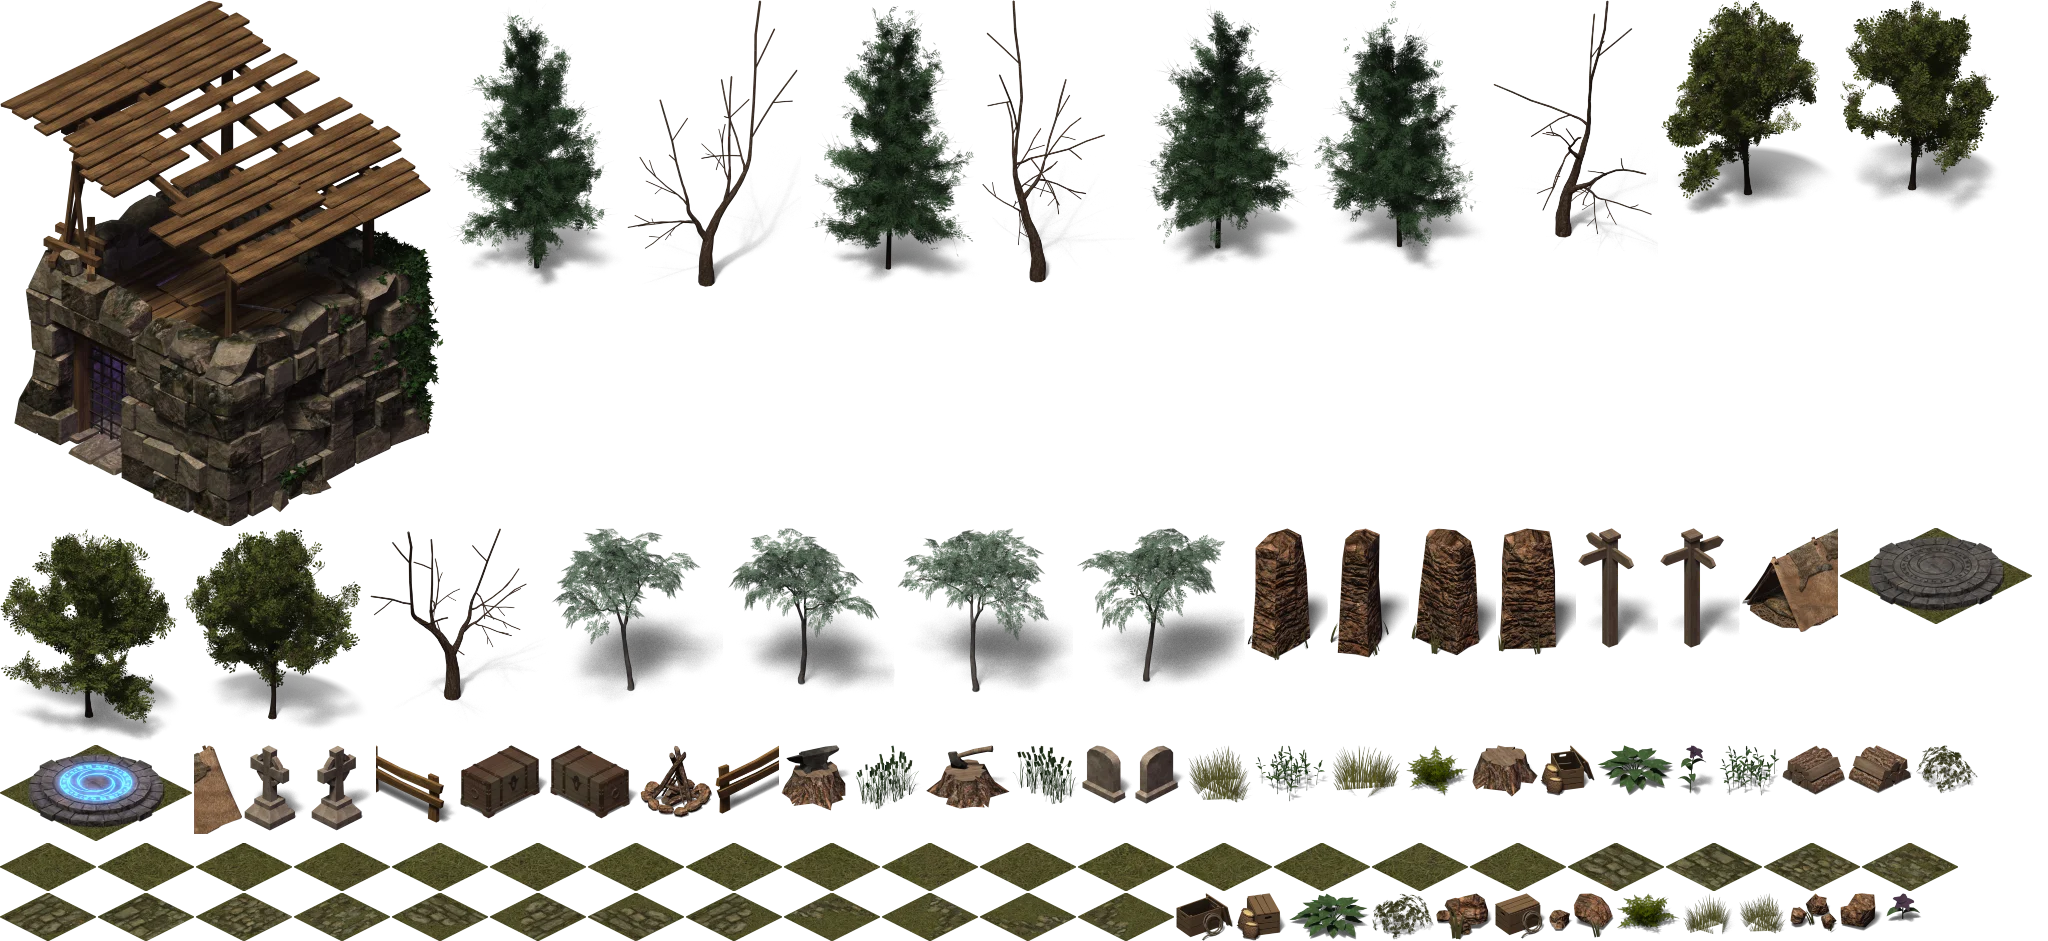
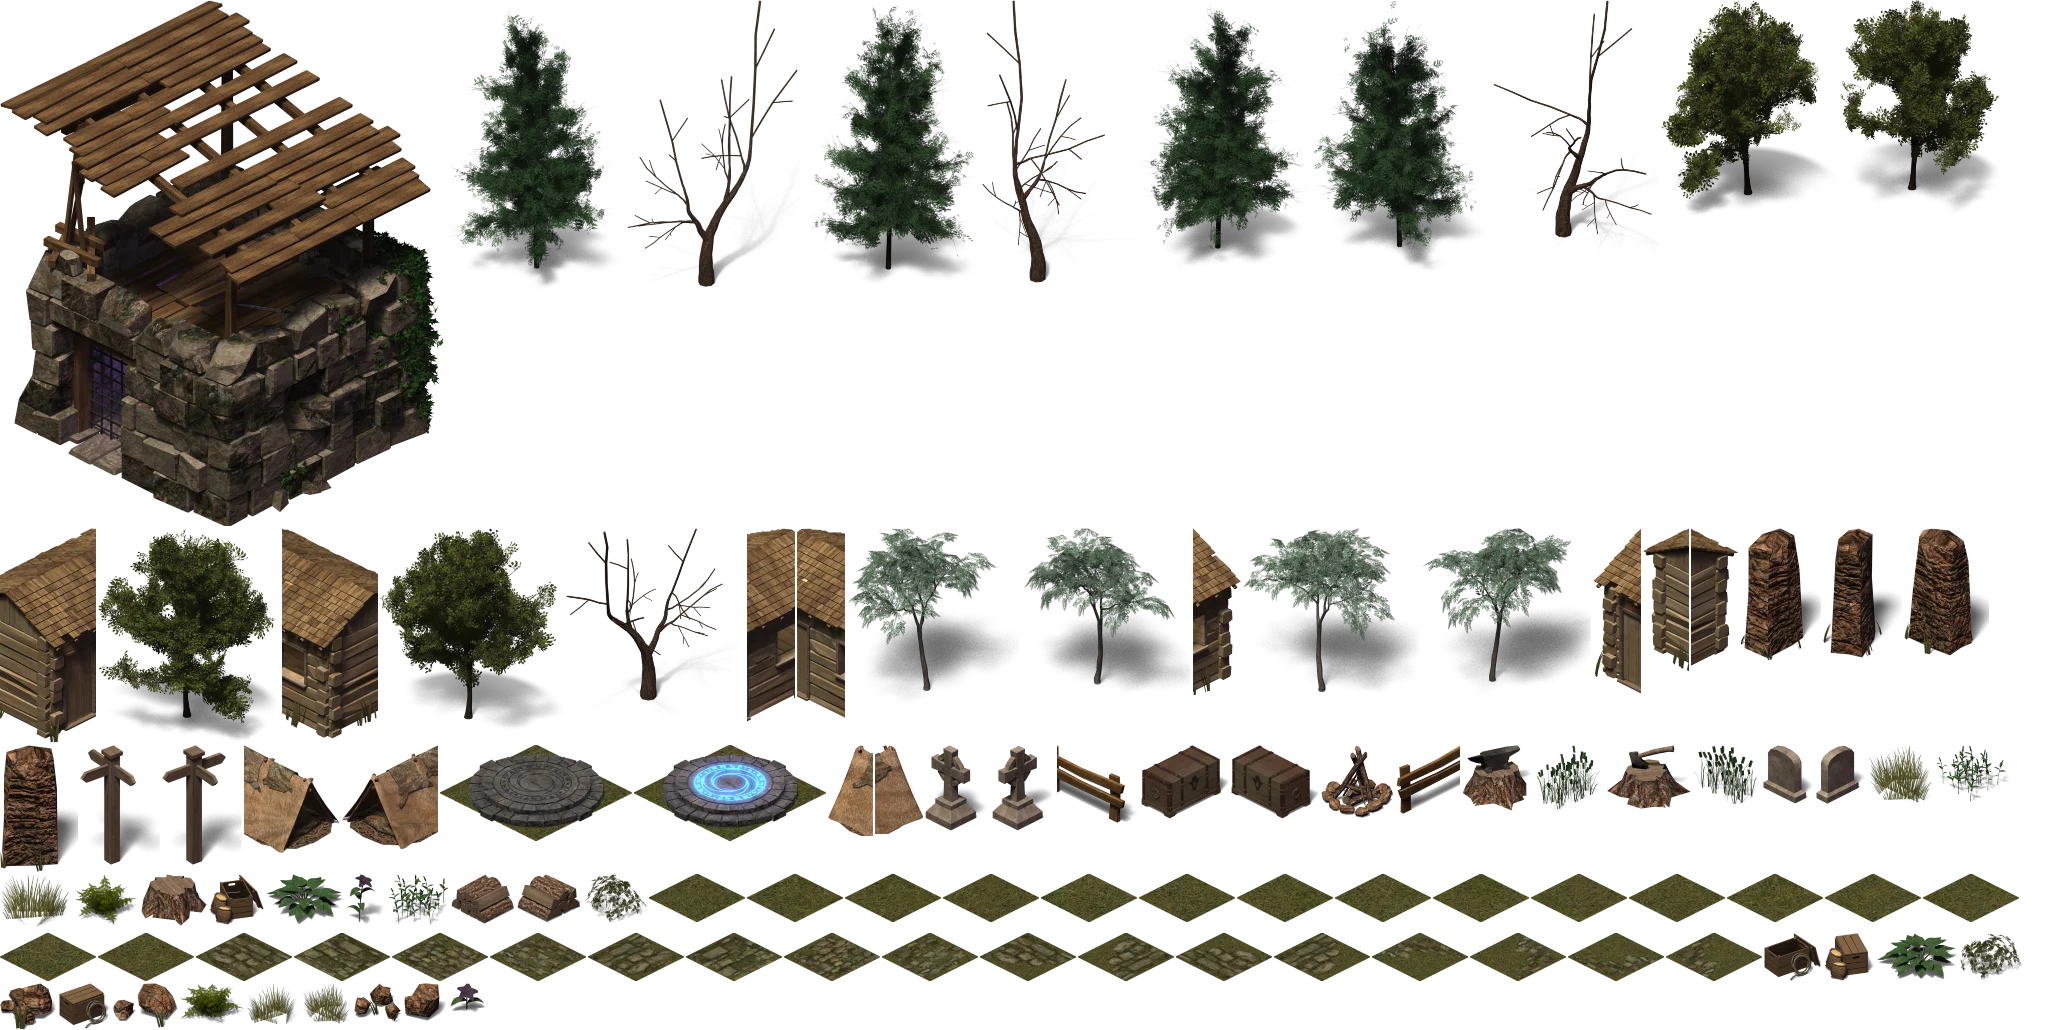
Las dos ciudades: Ciudad de Solmar (cabañas de Flare, plaza rúnica, empalizada) y Ciudad de Vhar (pueblo seco al noreste con puerta al mundo); cada facción arranca en la suya
Claude-Session: https://claude.ai/code/session_01BawyAWyAyhibh5fMv5iLTz

diff --git a/packages/world/src/cities.ts b/packages/world/src/cities.ts
@@ -1,0 +1,100 @@
+/**
+ * Las dos ciudades: Solmar (la villa del campamento, ampliada) y Vhar (un pueblo fortificado de tierras secas
+ * al noreste, que se conecta con el mundo por una puerta). Se arman con el arte de Flare (CC-BY-SA 3.0):
+ * cabañas de troncos de varias piezas (como en Lochport y Black Oak City de la campaña Empyrean),
+ * vallas, fogatas, yunque, tiendas, el pozo de piedra y el círculo rúnico de la plaza.
+ * Corre al final de buildSolmar, igual en cliente y server, con su propia semilla.
+ */
+import type { WorldMap, Prop, Npc } from './index';
+import { sbs, SBS, PATH, ROCKS, DEAD } from './frontier';
+
+export interface City { faction: 'solmar' | 'vhar'; name: string; x0: number; y0: number; x1: number; y1: number }
+export const CITIES: City[] = [
+    { faction: 'solmar', name: 'Ciudad de Solmar', x0: 1, y0: 1, x1: 14, y1: 14 },
+    { faction: 'vhar', name: 'Ciudad de Vhar', x0: 66, y0: 3, x1: 90, y1: 21 },
+];
+export const HUBS: Record<string, { x: number; y: number }> = { solmar: { x: 7, y: 8 }, vhar: { x: 78, y: 13 } };
+export const cityAt = (x: number, y: number): City | undefined => CITIES.find((c) => x >= c.x0 && x < c.x1 + 1 && y >= c.y0 && y < c.y1 + 1);
+
+const GRASS = [16, 17, 18, 19, 20, 21, 22, 23, 24, 25, 26, 27, 28, 29, 30, 31];
+const STONE = [32, 33, 34, 35, 36, 37, 38, 39, 40, 41, 42, 43];
+const DRY_GROUND = [sbs(SBS.rocky1, 1), sbs(SBS.rocky1, 2), sbs(SBS.rocky1, 7), sbs(SBS.rocky1, 10), sbs(SBS.rocky1, 12), sbs(SBS.dry1, 13)];
+const FLOWERS = [112, 113, 114, 115, 116, 117, 120, 121, 122, 123, 124, 125];
+
+export function extendCities(w: WorldMap): WorldMap {
+    let seed = 424242;
+    const rnd = () => { seed |= 0; seed = (seed + 0x6d2b79f5) | 0; let t = Math.imul(seed ^ (seed >>> 15), 1 | seed); t = (t + Math.imul(t ^ (t >>> 7), 61 | t)) ^ t; return ((t ^ (t >>> 14)) >>> 0) / 4294967296; };
+    const pick = <T>(a: readonly T[]): T => a[Math.floor(rnd() * a.length)];
+
+    const prop = (id: number, x: number, y: number, block = true) => { w.props.push({ id, x: x + 0.5, y: y + 0.5 }); if (block) w.blocked[y][x] = true; };
+    /** Cabaña de troncos de Flare, variante con la puerta hacia el sur: tres piezas en fila (x-2..x) y el techo en (x, y-1). Ocupa 3x2 celdas. */
+    const cabinA = (x: number, y: number) => { prop(212, x - 2, y); prop(213, x - 1, y); prop(214, x, y); prop(215, x, y - 1); w.blocked[y - 1][x - 2] = w.blocked[y - 1][x - 1] = true; };
+    /** Variante con la puerta hacia el este: (x, y), (x, y+1) y dos piezas en la fila de abajo. Ocupa 2x3 celdas. */
+    const cabinB = (x: number, y: number) => { prop(211, x, y); prop(210, x, y + 1); prop(208, x - 1, y + 2); prop(209, x, y + 2); w.blocked[y][x - 1] = w.blocked[y + 1][x - 1] = true; };
+
+    // limpia lo que había dentro de cada ciudad (el campamento viejo, vegetación suelta, mobs no hay: es zona segura)
+    for (const c of CITIES) {
+        const keep = (p: { x: number; y: number }) => !(p.x >= c.x0 && p.x <= c.x1 + 1 && p.y >= c.y0 && p.y <= c.y1 + 1);
+        w.props = w.props.filter(keep); w.decals = w.decals.filter(keep); w.buildings = w.buildings.filter(keep); w.npcs = w.npcs.filter(keep);
+        for (let y = c.y0; y <= c.y1; y++) for (let x = c.x0; x <= c.x1; x++) { w.blocked[y][x] = false; w.safe[y][x] = true; }
+    }
+
+    // ================= Solmar =================
+    {
+        const c = CITIES[0];
+        for (let y = c.y0; y <= c.y1; y++) for (let x = c.x0; x <= c.x1; x++) {
+            const plaza = x >= 5 && x <= 10 && y >= 5 && y <= 10, road = (x === 7 || x === 8 || y === 7 || y === 8) && !(x < 3 && y < 3);
+            w.tiles[y][x] = plaza || road ? pick(STONE) : pick(GRASS);
+        }
+        // empalizada: este y sur, con tres portones; norte y oeste son el borde del mapa
+        for (let i = 1; i <= 14; i++) {
+            if (i !== 5 && i !== 6 && i !== 11) prop(104, 14, i);
+            if (i !== 7 && i !== 8 && i < 14) prop(107, i, 14);
+        }
+        for (const [px, py] of [[15, 5], [15, 6], [15, 11], [7, 15], [8, 15]] as const) w.tiles[py][px] = pick(PATH);
+        w.decals.push({ id: 265, x: 7.5 + 0.5, y: 7.5 + 0.5 });
+        w.buildings = [{ id: 'fantasy_house', x: 9, y: 2, w: 3, h: 3 }];
+        for (const b of w.buildings) for (let y = b.y; y < b.y + b.h; y++) for (let x = b.x; x < b.x + b.w; x++) w.blocked[y][x] = true;
+        cabinA(6, 4); cabinA(13, 8); cabinA(5, 13); cabinA(12, 13); cabinB(2, 6); cabinB(2, 10);
+        prop(296, 12, 11); // pozo de piedra
+        prop(102, 10, 10); // fogata
+        prop(103, 4, 11); // yunque
+        for (const [id, x, y] of [[98, 10, 6], [100, 11, 6], [96, 4, 8], [99, 4, 9], [76, 3, 3], [77, 3, 4], [72, 12, 5], [75, 3, 13]] as const) prop(id, x, y);
+        for (const [x, y] of [[2, 2], [13, 2], [3, 12], [11, 12], [6, 9], [9, 6]] as const) prop(pick(FLOWERS), x, y, false);
+        for (const [x, y] of [[1, 1], [14, 1]] as const) prop(pick([252, 253, 254, 255]), x, y);
+        const npcs: Npc[] = [{ id: 'mercader', name: 'Mercader', x: 9, y: 7, dir: 6 }, { id: 'capitan', name: 'Capitán Aldric', x: 6, y: 9, dir: 2 }];
+        for (const n of npcs) { w.blocked[n.y][n.x] = true; w.npcs.push(n); }
+        w.spawn = { ...HUBS.solmar }; w.fire = { x: 10, y: 10 };
+    }
+
+    // ================= Vhar =================
+    {
+        const c = CITIES[1];
+        for (let y = c.y0; y <= c.y1; y++) for (let x = c.x0; x <= c.x1; x++) {
+            const plaza = x >= 74 && x <= 82 && y >= 9 && y <= 16, road = (x === 77 || x === 78 || x === 79 || y === 12 || y === 13) && !(y < 5);
+            w.tiles[y][x] = plaza ? pick(STONE) : road ? pick(PATH) : rnd() < 0.22 ? pick(DRY_GROUND) : pick(STONE);
+        }
+        // muralla de vallas con una puerta al sur (la que conecta con el resto del mundo)
+        for (let x = c.x0; x <= c.x1; x++) { prop(107, x, c.y0); if (x < 77 || x > 79) prop(107, x, c.y1); }
+        for (let y = c.y0 + 1; y < c.y1; y++) { prop(104, c.x0, y); prop(104, c.x1, y); }
+        w.decals.push({ id: 264, x: 78 + 0.5, y: 12.5 + 0.5 });
+        cabinA(71, 7); cabinA(76, 7); cabinA(85, 7); cabinA(88, 9); cabinA(70, 18); cabinA(86, 18); cabinB(68, 12); cabinB(88, 13); cabinB(72, 14);
+        prop(296, 83, 5); prop(102, 76, 11); prop(102, 80, 14); prop(103, 87, 16); prop(103, 69, 8);
+        for (const [id, x, y] of [[96, 75, 16], [98, 76, 16], [100, 82, 10], [99, 83, 10], [101, 84, 11], [72, 82, 17], [75, 73, 17], [73, 81, 4]] as const) prop(id, x, y);
+        for (const [x, y] of [[68, 5], [89, 4], [67, 20], [89, 20], [74, 4], [81, 19], [70, 11], [86, 12]] as const) prop(pick(DEAD), x, y);
+        for (const [x, y] of [[72, 20], [84, 19], [69, 15], [87, 7]] as const) prop(pick(ROCKS), x, y);
+        for (const [x, y] of [[68, 17], [71, 19], [88, 5]] as const) prop(pick([140, 141, 142, 143]), x, y);
+        const npcs: Npc[] = [{ id: 'mercader', name: 'Mercader de Vhar', x: 80, y: 11, dir: 6 }, { id: 'capitan', name: 'Capitán Kharos', x: 76, y: 14, dir: 2 }];
+        for (const n of npcs) { w.blocked[n.y][n.x] = true; w.npcs.push(n); }
+    }
+
+    // puertas entre el mundo y Vhar (pisar el tile y pasar al otro lado)
+    w.portals = [...(w.portals ?? []),
+        { x: 34, y: 14, tx: 78, ty: 19, msg: 'Cruzás la puerta hacia la Ciudad de Vhar.' },
+        { x: 78, y: 20, tx: 34, ty: 15, msg: 'Salís de la Ciudad de Vhar.' }];
+    w.tiles[14][34] = pick(STONE); w.tiles[20][78] = pick(STONE);
+    w.blocked[14][34] = w.blocked[20][78] = false; w.blocked[15][34] = w.blocked[19][78] = false;
+    w.props.push({ id: 138, x: 33 + 0.5, y: 14 + 0.5 } satisfies Prop, { id: 138, x: 35 + 0.5, y: 14 + 0.5 } satisfies Prop); w.blocked[14][33] = w.blocked[14][35] = true;
+    w.hubs = HUBS; w.cities = CITIES;
+    return w;
+}

diff --git a/apps/client/src/main.ts b/apps/client/src/main.ts
@@ -5,7 +5,7 @@
  * quién ve a quién y el chat. Lo que todavía corre solo en este navegador, como en el prototipo:
  * mobs, combate, hechizos, loot y experiencia (pasan al server en la fase 1b).
  */
-import { buildSolmar, MOBS, MOB_TYPES, type MobType, type MobDef } from '@fdn/world';
+import { buildSolmar, HUBS, cityAt, MOBS, MOB_TYPES, type MobType, type MobDef } from '@fdn/world';
 import { Net, serverUrl, type ServerPayload } from './net.ts';
 import { spellIcon } from './icons.ts';
 import { Saver, parseSave, type CharSave, type SavedItem } from './persist.ts';
@@ -453,7 +453,7 @@ function hurtPlayer(d: number, kind = '') {
         log(`Moriste. Perdiste ${lost} de exp y volvés al campamento.`, true);
         later(2.2, () => {
             // volver al campamento: el server confirma con playerTeleported
-            net.send({ $case: 'playerTeleportRequested', value: { x: MAP.spawn.x, y: MAP.spawn.y } });
+            const hub = HUBS[selectedFaction] ?? MAP.spawn; net.send({ $case: 'playerTeleportRequested', value: { x: hub.x, y: hub.y } });
             P.dead = false; P.one = null; P.hp = maxHp(); P.mp = maxMp();
         });
     }
@@ -1049,7 +1049,7 @@ function render() {
     if (inDungeon(P.x, P.y)) { ctx.fillStyle = 'rgba(12,8,24,.28)'; ctx.fillRect(0, 0, W, H); }
     ctx.textAlign = 'center';
     const zn = isSafe(P.x, P.y) ? null : ZONES.find((z) => near(P.x, P.y, z, z.r + 2)), zl = zn ? MOBS[zn.type].lvl : 0;
-    const zone = isSafe(P.x, P.y) ? 'Campamento de Solmar · zona segura' : zn ? `${zn.name} · Nv ${Math.max(1, zl - 1)}–${zl + 1}` : '';
+    const zone = isSafe(P.x, P.y) ? `${cityAt(P.x, P.y)?.name ?? 'Zona segura'} · zona segura` : zn ? `${zn.name} · Nv ${Math.max(1, zl - 1)}–${zl + 1}` : '';
     const danger = zl - P.lvl; // verde: tranquila · dorado: a tu nivel · rojo: te pasa por mucho
     if (zone) { ctx.font = "600 13px 'Alegreya SC', Georgia, serif"; ctx.fillStyle = !zn ? 'rgba(214,164,69,.9)' : danger >= 4 ? '#ff6b5a' : danger >= 1 ? '#ffb347' : danger >= -3 ? 'rgba(214,164,69,.9)' : '#8fd18b'; ctx.fillText(zone + (zn && danger >= 4 ? ' · ¡peligrosa!' : ''), W / 2, H - 98); }
 }
@@ -1397,7 +1397,10 @@ function enterWorld(name: string) {
     cv.focus({ preventScroll: true });
     saver.start();
     if (welcomeBack) log(`Bienvenido de vuelta, ${name}. Nivel ${P.lvl}.`, true);
-    log('Bienvenido al campamento de Solmar. Goblins al sureste, zombis en el pantano del este, esqueletos en el cementerio.', true);
+    // cada facción arranca en su ciudad (también si el guardado te dejó dentro de la del otro bando)
+    const hub = HUBS[selectedFaction], here = cityAt(P.cell.x, P.cell.y);
+    if (hub && (!welcomeBack || (here && here.faction !== selectedFaction))) net.send({ $case: 'playerTeleportRequested', value: { x: hub.x, y: hub.y } });
+    log(selectedFaction === 'vhar' ? 'Bienvenido a la Ciudad de Vhar. La puerta del sur lleva a las tierras de Solmar: goblins al sureste, zombis en el pantano, esqueletos en el cementerio.' : 'Bienvenido a la Ciudad de Solmar. Goblins al sureste, zombis en el pantano del este, esqueletos en el cementerio.', true);
     log('Tocá un mob para atacarlo. Apretá un hechizo (1–4), esperá que cargue y hacé clic en el objetivo. Enter para chatear.');
 }
 

diff --git a/packages/world/src/index.ts b/packages/world/src/index.ts
@@ -9,6 +9,8 @@
 
 import { extendSolmar } from './frontier';
 import { extendAshlands } from './ashlands';
+import { extendCities } from './cities';
+export { CITIES, HUBS, cityAt, type City } from './cities';
 import type { MobType } from './mobs';
 export * from './mobs';
 
@@ -43,6 +45,9 @@ export interface WorldMap {
     dungeon?: { x0: number; y0: number; x1: number; y1: number };
     /** Otras mazmorras (Cámara del foso): el cliente las oscurece igual. */
     dungeons?: { x0: number; y0: number; x1: number; y1: number }[];
+    /** Punto de aparición de cada facción y rectángulo de cada ciudad (zona segura con nombre). */
+    hubs?: Record<string, { x: number; y: number }>;
+    cities?: { faction: string; name: string; x0: number; y0: number; x1: number; y1: number }[];
 }
 
 const GRASS = [16, 17, 18, 19, 20, 21, 22, 23, 24, 25, 26, 27, 28, 29, 30, 31];
@@ -122,7 +127,7 @@ export function buildSolmar(): WorldMap {
     for (const b of buildings) for (let y = b.y; y < b.y + b.h; y++) for (let x = b.x; x < b.x + b.w; x++) blocked[y][x] = true;
     const npcs: Npc[] = [{ id: 'mercader', name: 'Mercader', x: 9, y: 7, dir: 6 }, { id: 'capitan', name: 'Capitán Aldric', x: 6, y: 10, dir: 2 }];
     for (const n of npcs) blocked[n.y][n.x] = true;
-    return extendAshlands(extendSolmar({ size: N, tiles, blocked, safe, props, decals, zones, buildings, npcs, spawn: { x: 6, y: 7 }, fire: { x: 8, y: 8 } }));
+    return extendCities(extendAshlands(extendSolmar({ size: N, tiles, blocked, safe, props, decals, zones, buildings, npcs, spawn: { x: 6, y: 7 }, fire: { x: 8, y: 8 } })));
 }
 
 /** Mapas por nombre (el que figura en worlds.json del server). */

diff --git a/tools/src/flare/atlas.ts b/tools/src/flare/atlas.ts
@@ -164,7 +164,7 @@ for (const l of readFileSync(join(mod, 'tilesetdefs', 'tileset_grassland.txt'), 
     if (l.startsWith('tile=')) { const v = l.trim().slice(5).split(',').map(Number); defs.set(v[0], v.slice(1)); }
 }
 const range = (a: number, b: number) => Array.from({ length: b - a }, (_, i) => a + i);
-const ids = [...range(16, 48), 72, 73, 76, 77, 96, 97, 98, 99, 100, 101, 102, 103, 104, 107, ...range(112, 144), ...range(240, 256), 264, 265, 296];
+const ids = [...range(16, 48), 72, 73, 74, 75, ...range(208, 216), 76, 77, 96, 97, 98, 99, 100, 101, 102, 103, 104, 107, ...range(112, 144), ...range(240, 256), 264, 265, 296];
 const items = ids.map((id) => { const [x, y, w, h, ox, oy] = defs.get(id)!; return { id, x, y, w, h, sw: Math.max(1, Math.round(w * S)), sh: Math.max(1, Math.round(h * S)), ox: ox * S, oy: oy * S }; })
     .sort((a, b) => b.sh - a.sh);
 const W = 2048;
